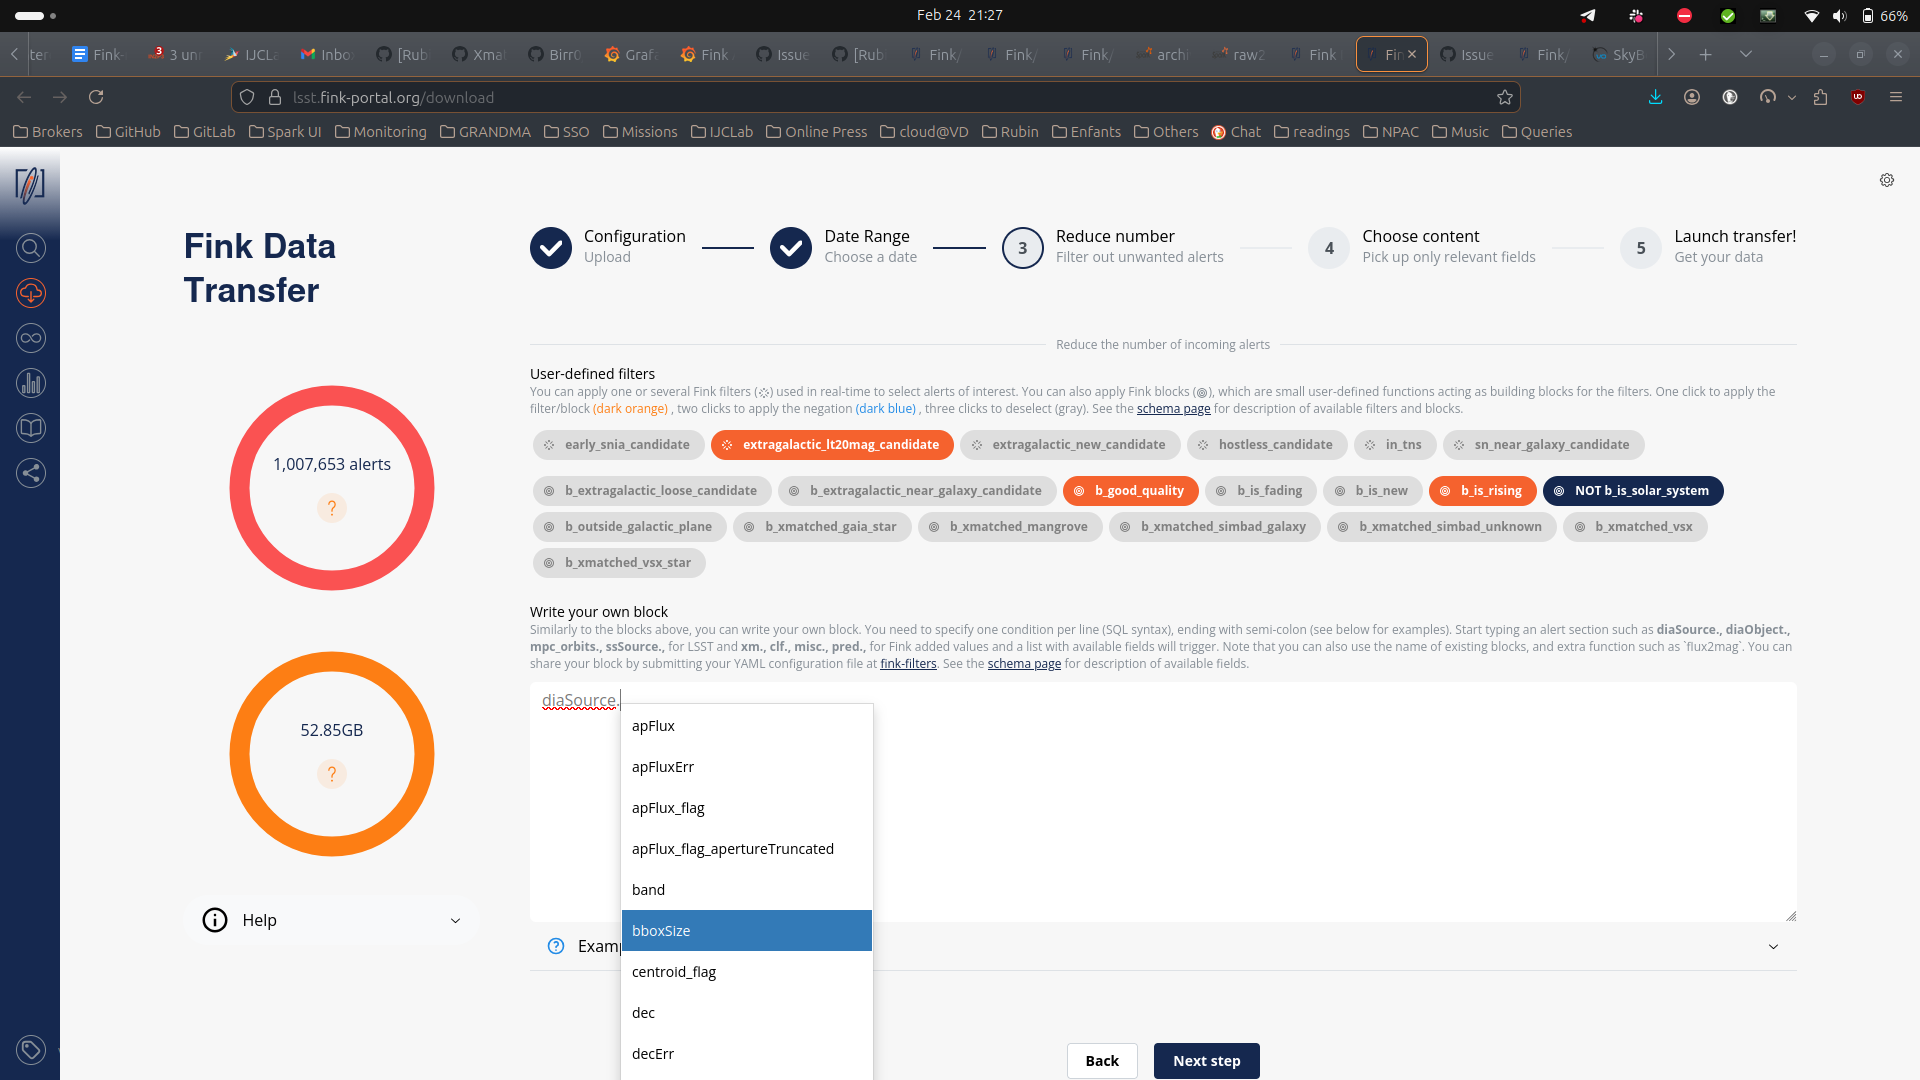
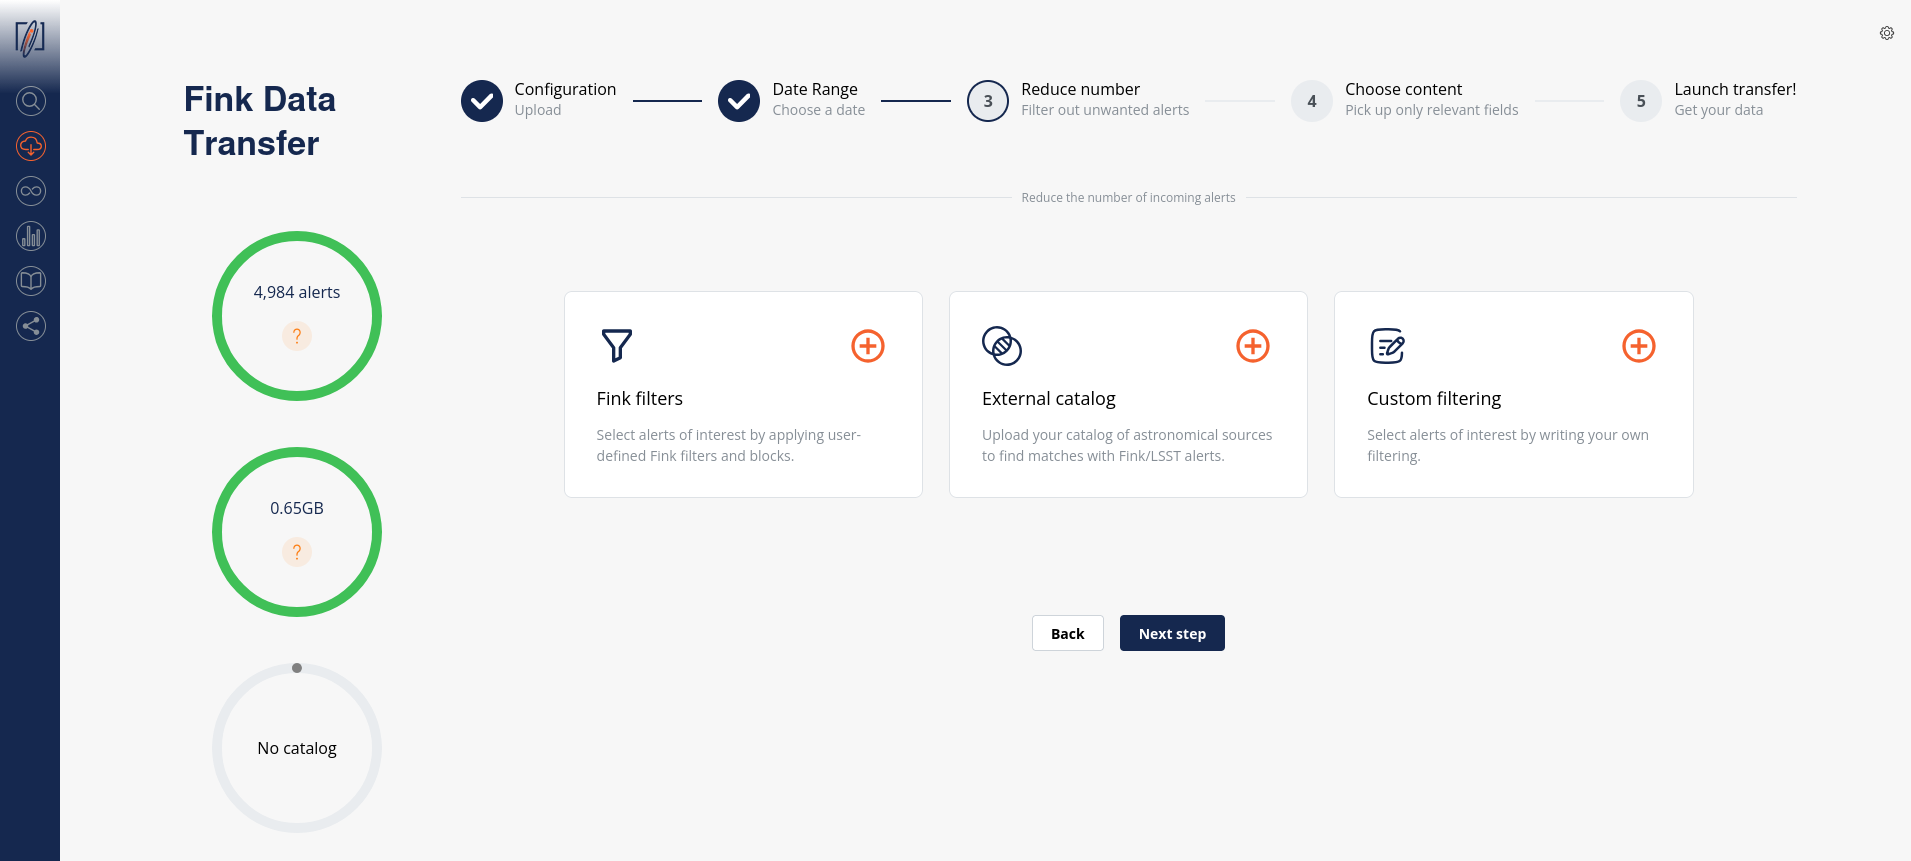
xmatch service (#24)
* Add versions

* Add data transfer

* More explanation

* Note on catalogs

diff --git a/docs/services/data_transfer.md b/docs/services/data_transfer.md
@@ -1,8 +1,8 @@
 # Fink Data Transfer
 
-_date 08/04/2026_
+_date 16/04/2026_
 
-This manual has been tested for `fink-client` version 11.0. In case of trouble, send us an email (contact@fink-broker.org) or [open an issue :lucide-external-link:](https://github.com/astrolabsoftware/fink-client/issues){target="blank_"}.
+This manual has been tested for `fink-client` version 11.0 and Fink/LSST Portal 1.2. In case of trouble, send us an email (contact@fink-broker.org) or [open an issue :lucide-external-link:](https://github.com/astrolabsoftware/fink-client/issues){target="blank_"}.
 
 !!! info "From ZTF to LSST"
     ZTF users need to migrate their fink-client to at least version 10.0, and authenticate again.
@@ -40,57 +40,96 @@ To ease the consuming step, the users are recommended to use the [fink-client :l
 ## Defining your query
 
 To start the service, connect to [https://lsst.fink-portal.org/download :lucide-external-link:](https://lsst.fink-portal.org/download){target="blank_"}. The construction of the query is a guided process.
-First, if you have a configuration file, you can upload it. If you do not know what it is, no worry, we will see it later. Then jump on the next page to choose the dates for which you would like to get alert data using the calendar. You can choose multiple consecutive dates. Then go on the next page:
+First, if you have a configuration file, you can upload it. If you do not know what it is, no worry, we will see it later. Then jump on the next page to choose the dates for which you would like to get alert data using the calendar. You can choose multiple consecutive dates. 
+
+### Reducing the number of alerts
+
+After choosing the dates, go on the next page:
 
 ![2](../img/download_filters.png)
 
-For LSST, you can further filter the data in three ways:
+You can further filter the data in three ways:
 
-1. You can select one or more user-defined tag(s) (the Fink Filters). This is useful if you want to replay an analysis on a previous night.
-2. You can select one or more user-defined block(s). Blocks are useful set of conditions.
-3. Optionally, you can also impose extra conditions on the alerts you want to retrieve based on their content. You will simply specify the name of the parameter with the condition (SQL syntax). If you have several conditions, put one condition per line, ending with semi-colon. Example of valid conditions:
+1. Select one or more user-defined tag(s) (the Fink Filters) or blocks. This is useful if you want to replay an analysis on a previous night.
+2. Upload a catalog of sources for crossmatch.
+3. Impose extra conditions on the alerts you want to retrieve based on their content. You will simply specify the name of the parameter with the condition (SQL syntax). If you have several conditions, put one condition per line, ending with semi-colon. Example of valid conditions are shown in the interface. Note that when you start typing a nested field in the schema, a dropdown menu will appear with available fields. See the [schema page :lucide-external-link:](https://lsst.fink-portal.org/schemas){target="blank_"} for more information about available tags, block, and fields.
 
-```sql
--- Example block 1
--- Alerts with flux above 13500 nJy (< mag 21) and
--- at least 3 detections
-diaSource.psfFlux > 13500;
-diaObject.nDiaSources > 3;
+Note that if you double click on filters or blocks, you will apply its negation:
 
--- Example block 2: Filter on magnitude and specific band
-diaSource.band = 'g';
-31.4 - 2.5 * LOG10(diaSource.scienceFlux) < 21;
+![2](../img/download_filters_explained.png)
 
--- Example block 3: Using a combination of fields (magnitude difference between science and template)
-2.5 * LOG10(diaSource.psfFlux / diaSource.templateFlux) > 0.5;
+The number of alerts in the gauge will update as you select Fink Filters or blocks:
 
--- Example block 3: Filtering on ML scores
-clf.snnSnVsOthers_score > 0.5;
+<figure markdown="span">
+  ![Image title](../img/datatransfer_gauge_full.png){ width='45%' align=left }
+  ![Image title](../img/datatransfer_gauge_filtered.png){ width='45%' align=right}
 
--- Example block 4: Filtering on catalog output
-xm.tns_type IN ('SN Ia', 'SN II');
+  <figcaption markdown="span">Left: total number of alerts for a night. Right: Number of alerts after applying the `b_is_solar_system` block.</figcaption>
+</figure>
 
--- Example block 5: Only classified objects in SIMBAD and Gaia DR3
-pred.is_cataloged;
-```
+!!! warning "Estimating the filtered alert number" 
 
-Note that when you start typing a nested field in the schema, a dropdown menu will appear with available fields. See the [schema page :lucide-external-link:](https://lsst.fink-portal.org/schemas){target="blank_"} for more information about available tags, block, and fields.
+    There are some caveats to know:
 
-Finally you can choose the content of the alerts to be returned. You have four types of content:
-1. Light packet: lightweight (a few KB/alerts), this option transfers only necessary fields for working with lightcurves plus all Fink added values. Prefer this option to start.
-2. Medium packet: original LSST alerts plus all Fink added values, but without cutouts.
-4. Full packet: original LSST alerts plus all Fink added values.
-4. Any fields you want: instead of the pre-defined schema from above, you can also choose to download only the fields of interest for you. Prefer this option if you know what you want (and this will reduce greatly the volume of data to transfer).
+    1. filter and block yields are statistical, computed over a month of data. So the filtered numbers are only representative.
+    2. The filter yields are applied serially, without taking into account possible overlaps.
+    3. The custom filters (SQL) are not taken into account when estimating the number of alerts.
+    4. If a catalog has been uploaded, the results of the crossmatch is not known in advance.
 
-Alert schema can be again accessed directly from the [schema page :lucide-external-link:](https://lsst.fink-portal.org/schemas){target="blank_"}. Note that you can apply filters (e.g. tags, extra conditions, etc.) on any alert fields regardless of the final alert content as the filtering is done prior to the output schema. Once you have filled all parameters, go to the last iteration, and review all parameters before hitting the submission button:
+!!! note "Note on catalog visibility"
+    Uploaded catalogs remain secluded for all practical purpose and will not be exploited scientifically by anyone. They are stored on our system during the operation, and they are automatically deleted after 24h. During this time, only engineers have access to it   exclusively for debugging purposes and to assist users if need be.
+
+### Selecting alert content
+
+Finally you can choose the content of the alerts to be returned. You have several types of options:
+
+1. Predefined schemas: Full packet, Medium Packet, Light static packet and Light SSO packet.
+2. Root fields: `diaSource`, `prvDiaSources`, etc. This will take all fields from a section.
+3. Any field you want: instead of the pre-defined schemas from above, you can also choose to   download only the fields of interest for you. Prefer this option if you know what you want     (and this will reduce greatly the volume of data to transfer).
+
+Alert schema can be again accessed directly from the [schema page :lucide-external-link:](https://lsst.fink-portal.org/schemas){target="blank_"}. Note that you can apply filters (e.g. tags, extra conditions, etc.) on any alert fields regardless of the final alert content as the filtering is done prior to the output schema. 
+
+As you select fields to be transfered, the gauge on the right will be updated with an estimation of the total to be transfered:
+
+<figure markdown="span">
+  ![Image title](../img/datatransfer_gauge_size_full.png){ width='30%' align=left }
+  ![Image title](../img/datatransfer_gauge_size_medium.png){ width='30%' align=left }
+  ![Image title](../img/datatransfer_gauge_size_light_static.png){ width='30%' align=right }
+
+  <figcaption markdown="span">Left: total volume in gigabytes to transfer for a night (Full packet option). Center: Same with the Medium packet option. Right: Same with the Light static packet option.</figcaption>
+</figure>
+
+This is a statistical estimation based on data taken in April 2026. You will find an estimation of each (main) section in an alert packet in the following table:
+
+|Content|median size| comments |
+|-|-|-|
+|Full packet (static)| 176KB | All Fink & LSST fields for static alerts |
+|Full packet (SSO)| 60KB | All Fink & LSST fields for SSO alerts |
+|Cutouts| 58KB | 3 cutouts. Size is minimum 30x30 pixels. |
+|`prvDiaSources`| 116KB | History size varies from 0 to 1000+ elements |
+|`prvDiaForcedSources`| 1KB | History size varies from 0 to 1000+ elements. Note that forced photometry started in February, and was reset in March by Rubin (hence smaller size than photometry history) |
+|`diaSource`| 0.5KB | Contains photometry, astrometry, timings, flags, etc. |
+|`diaObject`| <0.5KB | Only available for static alerts |
+|`mpc_orbits`| <0.5KB | Only available for solar system object alerts |
+|`ssSource`| <0.5KB | Only available for solar system object alerts |
+|Fink added values| 1KB | labels from crossmatch, machine learning and deep learning scores, flags, etc. |
+
+!!! warning "Estimating the data size"
+
+    These numbers depend on the alert history size and cutout size, and the gauge should be seen as a rough guide. See this [issue :lucide-external-link:](https://github.com/astrolabsoftware/lsst.fink-portal.org/issues/91){target="blank_"} for more detailed information.
+
+### Submitting the request
+
+Once you have filled all parameters, go to the last iteration, and review all parameters before hitting the submission button:
 
 ![1](../img/download_final.png)
-
-The number of alert estimation is only the number of alerts between the chosen dates, and it does not take into account the number of alerts per night, the number of alerts filtered per tags and blocks, and the extra conditions (that could further reduce the number of alerts). However we provide an estimation of the size of the data to be transfered based on the content. You can update your parameters if need be, the estimations will be updated in real-time.
 
 Before submission, download your configuration file. Next time you launch a job, you will be able to upload it to retrieve your parameters!
 
 ![1](../img/configuration_data_transfer.png)
+
+!!! tip "Catalog upload"
+    Note that although we log the catalog filename, you will have to upload it again (we do not keep a copy of it).
 
 After submission, your job will be triggered on the Fink Apache Spark cluster, and a topic name will be generated. Keep this topic name with you, you will need it to get the data. Details about the progress will be automatically displayed on the page.
 
